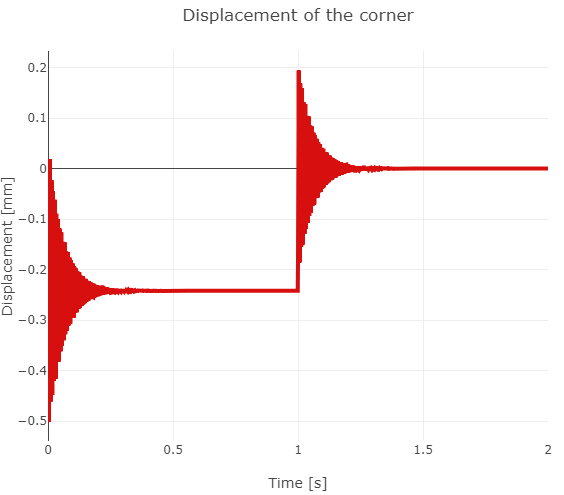
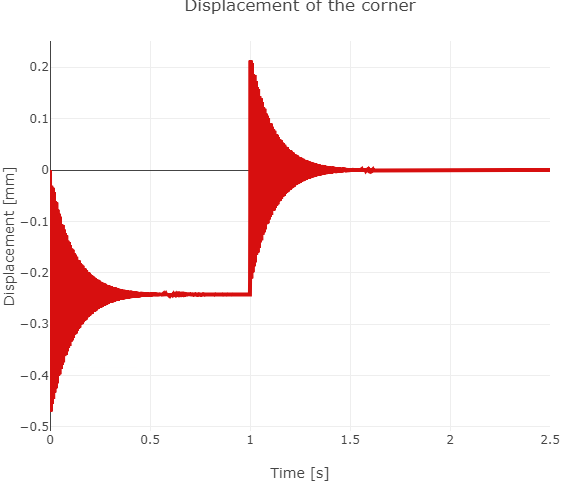
damping

diff --git a/docs/src/tutorials/beam_load_on_off_tut.md b/docs/src/tutorials/beam_load_on_off_tut.md
@@ -50,16 +50,14 @@ Input parameters
 E = 205000*phun("MPa");# Young's modulus
 nu = 0.3;# Poisson ratio
 rho = 7850*phun("KG*M^-3");# mass density
-loss_tangent = 0.01;
-frequency = 1/0.0058;
-Rayleigh_mass = 2*loss_tangent*(2*pi*frequency);
-Rayleigh_stiffness = 2*loss_tangent/(2*pi*frequency);
+loss_tangent = 0.015;
 L = 200*phun("mm");
 W = 4*phun("mm");
 H = 8*phun("mm");
 tolerance = W/500;
 qmagn = 0.1*phun("MPa");
-tend = 2.0*phun("SEC");
+tend = 2.5*phun("SEC");
+
 
 #
 ```
@@ -90,7 +88,6 @@ femm = associategeometry!(femm, geom)
 K = stiffness(femm, geom, u)
 femm = FEMMDeforLinear(MR, IntegDomain(fes, GaussRule(3,3)), material)
 M = mass(femm, geom, u)
-C = Rayleigh_stiffness * K + Rayleigh_mass * M
 ```
 
 Find the boundary finite elements at the tip cross-section of the beam. The
@@ -127,12 +124,60 @@ el1femm =  FEMMBase(IntegDomain(subset(bdryfes,tipbfl), GaussRule(2,2)))
 F = distribloads(el1femm, geom, u, fi, 2);
 ```
 
+The loading function is defined as a time -dependent multiplier of the
+constant distribution of the loading on the structure.
+
+```julia
+tmult(t)  =  (t < 1.0) ? 1.0 : 0.0
+
+#
+```
+
+## Time step determination
+
 We figure out the fundamental mode frequency, which will determine the time
 step is a fraction of the period.
 
 ```julia
 evals, evecs = eigs(K, M; nev=1, which=:SM);
-dt = 0.15 * 2/sqrt(evals[1]);
+```
+
+The fundamental angular frequency is then:
+
+```julia
+@show omega_f = sqrt(evals[1]);
+```
+
+We take  the time step to be a fraction of the period of vibration  in the
+fundamental mode.
+
+```julia
+dt = 0.05 * 1/(omega_f/2/pi);
+
+
+#
+```
+
+## Damping model
+
+We take the damping to be representative of what's happening at the
+fundamental vibration frequency.
+
+For a given loss factor at a certain  frequency $\omega_f$, the
+stiffness-proportional damping coefficient may be estimated as
+2*loss_tangent/$\omega_f$, and the mass-proportional damping coefficient may be
+estimated as 2*loss_tangent*$\omega_f$.
+
+```julia
+Rayleigh_mass = (loss_tangent/2)*omega_f;
+Rayleigh_stiffness = (loss_tangent/2)/omega_f;
+```
+
+Now we construct the Rayleigh damping matrix as a linear combination of the
+stiffness and mass matrices.
+
+```julia
+C = Rayleigh_stiffness * K + Rayleigh_mass * M
 ```
 
 The time stepping loop is protected by `let end` to avoid unpleasant surprises
@@ -147,7 +192,6 @@ Initial displacement, velocity, and acceleration.
 ```julia
     U0 = gathersysvec(u)
     v = deepcopy(u)
-    v.values[:, 3] .= vmag
     V0 = gathersysvec(v)
     U1 = fill(0.0, length(V0))
     V1 = fill(0.0, length(V0))
@@ -179,22 +223,13 @@ Let us begin the time integration loop:
         push!(corneruzs, U0[cornerzdof])
         t = t+dt;
         step = step + 1;
-        (mod(step,50)==0) && println("Step$(t)")
+        (mod(step,100)==0) && println("Step$(t)")
 ```
 
-Zero out the load
+Set the time-dependent load
 
 ```julia
-        fill!(F1, 0.0);
-```
-
-If the current time falls into the interval of force application, set
-the force.
-
-```julia
-        if (t < tend/2)
-            F1 .= F
-        end
+        F1 .= tmult(t) .* F
 ```
 
 Compute the out of balance force.
